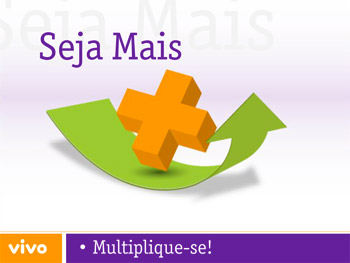
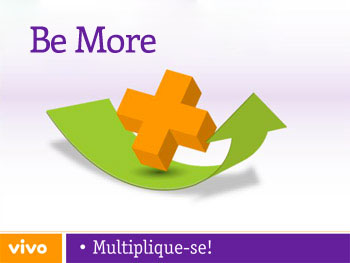
Troca de "Seja Mais" para "Be More"

Changed region(s): [[0.0857, 0.0913, 0.5143, 0.2738], [0.0571, 0.9125, 0.0857, 0.943], [0.0286, 0.943, 0.0571, 0.9734]]

diff --git a/LearningChannelAPI/DataAccess/CourseDAL.cs b/LearningChannelAPI/DataAccess/CourseDAL.cs
@@ -50,7 +50,7 @@ namespace LearningChannelAPI.DataAccess
 						Rating = 4.5,
 						Subscriptions = 230,
 						Thumb = "thumb-ID00002.jpg",
-						Title = "Seja Mais",
+						Title = "Be More",
 						Views = 1500,
 						Lessons = LessonDal.Lessons.Where(x=>x.CourseId == 2).OrderBy(l => l.Order).ToArray(),
 						Groups = GroupsDal.Groups.Where(x=>x.CourseId == 2).ToArray(),
